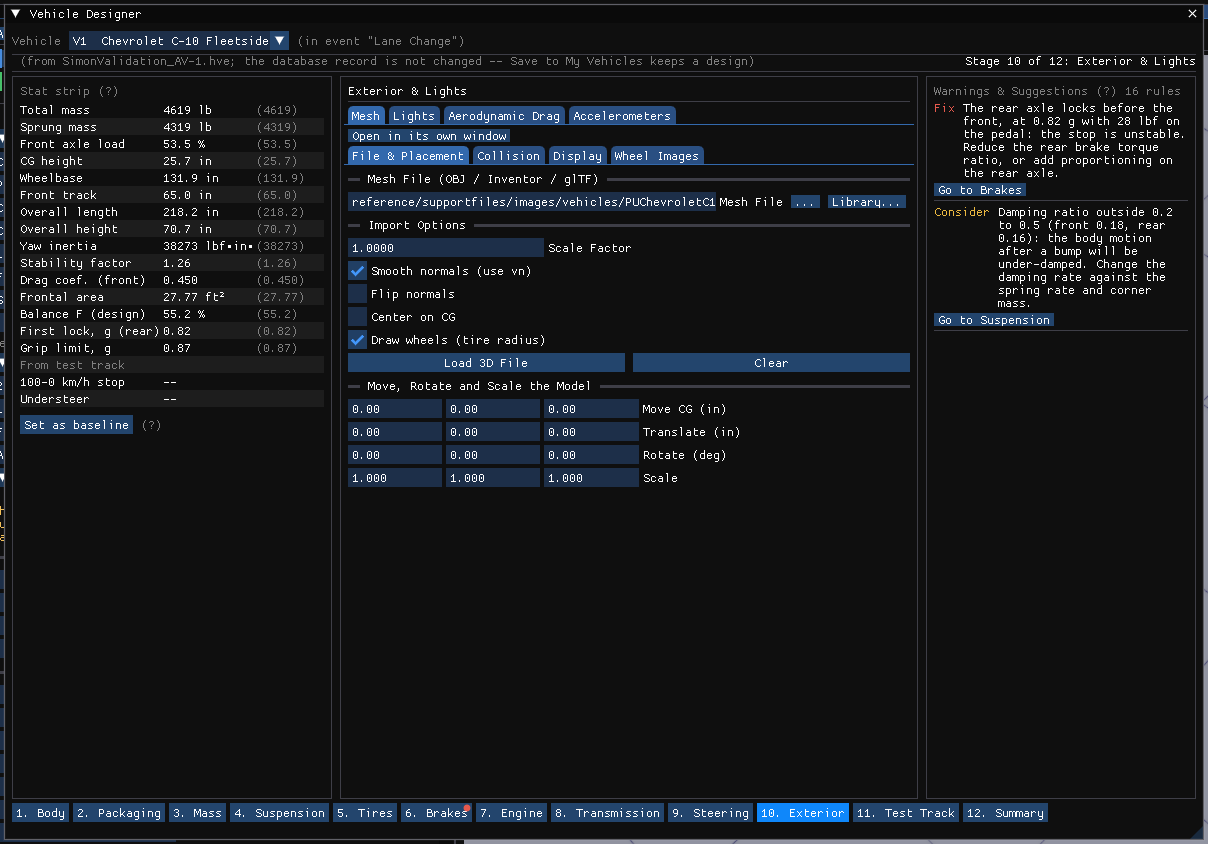
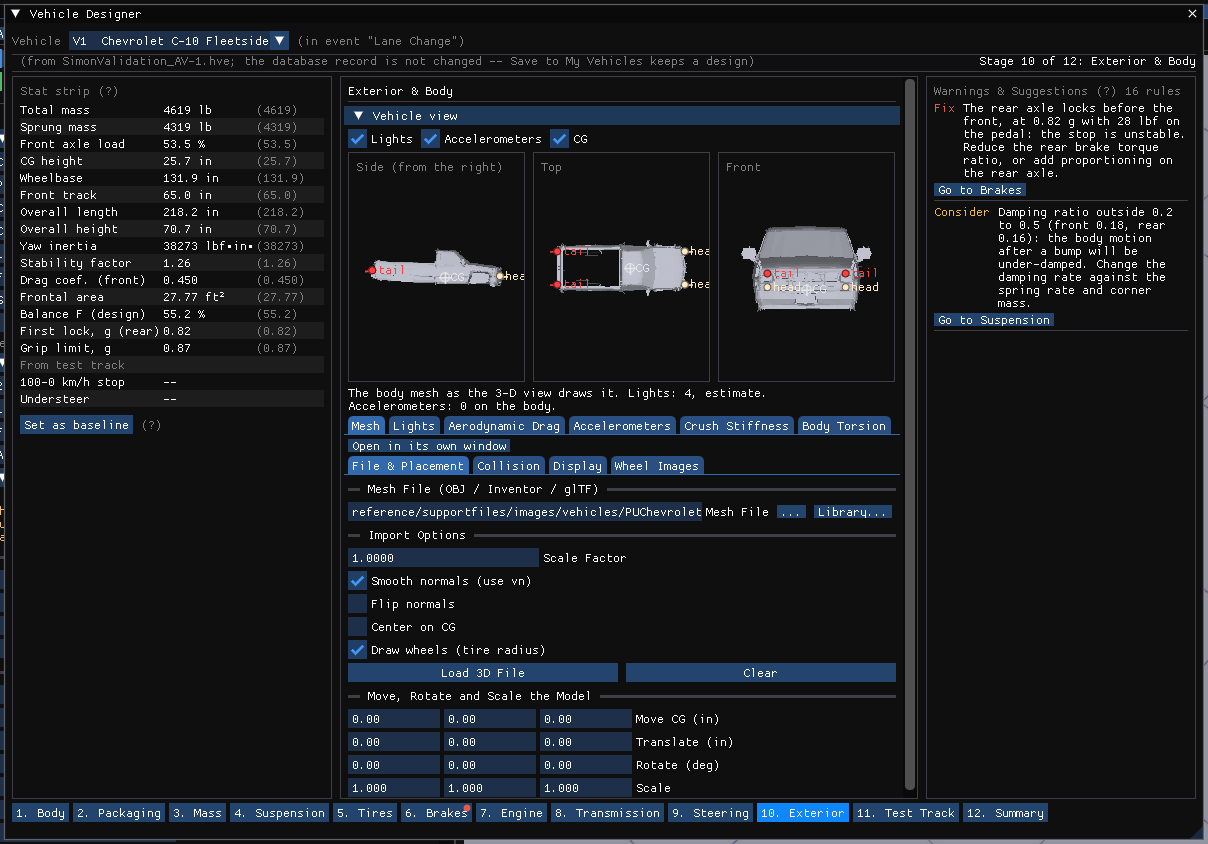
HVE 2027 manuals: sync from hve-next 1e7e86b9
Vehicle Designer: Crush Stiffness and Body Torsion on Exterior, Connections on Packaging (M5b). Figures 12-11 to 12-13.

Claude-Session: https://claude.ai/code/session_01ExFGmXKkveRikV1Nmb9fu5

Changed region(s): [[0.2757, 0.0924, 0.7657, 0.955], [0.8882, 0.0616, 0.9189, 0.0924]]

diff --git a/hve2027/docs/manuals/hve-users/04-vehicle-editor/12-vehicle-designer.md b/hve2027/docs/manuals/hve-users/04-vehicle-editor/12-vehicle-designer.md
@@ -36,7 +36,7 @@ numbered so the order is visible; any stage can be clicked at any time:
 7. **Engine** — idle and redline, the torque and power curves, engine braking.
 8. **Transmission** — gear ratios, final drive, shift logic, drive type, differential.
 9. **Steering** — steer ratio, column and geometry per axle.
-10. **Exterior** — the mesh, the lamps, aerodynamic drag and accelerometers.
+10. **Exterior** — the mesh, the lamps, aerodynamic drag, accelerometers, crush stiffness and body torsion.
 11. **Test Track** — three canned SIMON runs on the current physics, read back as numbers.
 12. **Summary** — the spec sheet, the whole warnings list and the provenance tally.
 
@@ -56,7 +56,9 @@ location, engine location and drive axles, with HVE's rules applied as you
 change one) and **Size & Weight** (HVE's Vehicle Wizard form, applied as you
 type: wheelbase, tracks, lengths, weights and CG, with the wheelbase check and
 the **Details** tables underneath). They are the panel's own sections, not
-copies: a field has one editor. Under them, folded, is the **Vehicle Package**
+copies: a field has one editor. Under them, folded, are **Connections** (the
+Vehicle Connections editor: how this unit couples to another by hitch, fifth
+wheel or pintle, with its **Properties...** window) and the **Vehicle Package**
 wizard that **Tools › Vehicle Package...** opens, pinned to the designer's
 vehicle: **1. Identify** (the VIN
 and what decoding it says, or the year, make, model and trim), **2.
@@ -268,8 +270,10 @@ carries, one tab each: **Mesh** (the Vehicle Mesh editor with its File &
 Placement, Collision, Display and Wheel Images tabs), **Lights** (the Vehicle Lights
 editor with its Lamp parts and Light sources tabs), **Aerodynamic Drag** (the
 drag coefficients of the four surfaces) and **Accelerometers** (the vehicle's
-accelerometer list). Each tab's **Open in its own window** opens that editor's
-window. The mesh is the one of the four an engine reads, in DyMESH contact; the
+accelerometer list), then the body's structure: **Crush Stiffness** (A, B and Kv
+per side, and DyMESH's node stiffness) and **Body Torsion** (the frame's
+torsional stiffness and axis). Each tab's **Open in its own window** opens that
+editor's window. The mesh is the one of the four an engine reads, in DyMESH contact; the
 other three are display and instrumentation.
 
 ![Figure 12-11: the Exterior stage with its four editors as tabs](../images/hvn-04-vehicle-designer-exterior.png)
